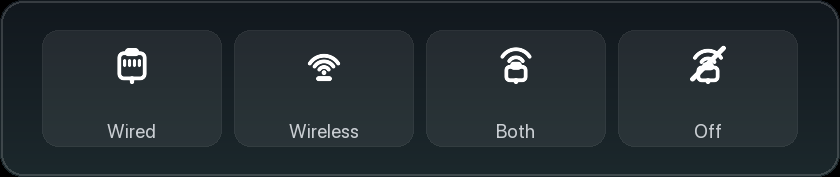
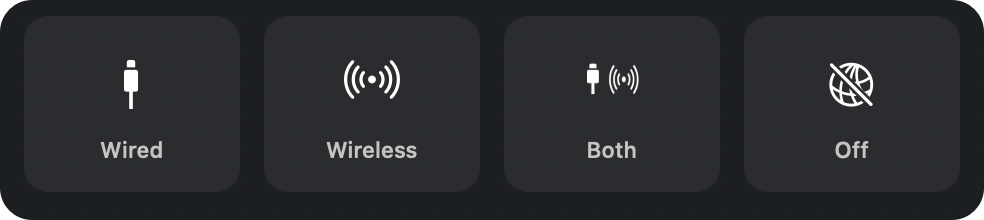
Refresh README screenshots and Usage for current panel UI (#1)
Hero now reflects the current panel (info button, icon footer) with a wired
adapter enabled; tray-states strip uses the current SF Symbols.

diff --git a/README.md b/README.md
@@ -103,12 +103,13 @@ The workflow lives at `.github/workflows/release.yml`. Builds are unsigned; see 
 
 ## Usage
 
-1. Click the Eithernet icon in the menu bar (state changes with wired / wireless / both / off).
+1. Click the Eithernet icon in the menu bar (tray icon: wired, wireless, both, or off).
 2. Under **Wired**, toggle any Ethernet / LAN adapters.
 3. Under **Wireless**, toggle Wi‑Fi power and tap a network name to join it.
-4. Check the header for connected SSID and IPv4.
-5. Use **Wi‑Fi Settings…** or **Eithernet Settings…** for system Wi‑Fi prefs and app options (including Launch at Login).
-6. Use **Refresh** to rescan interfaces and nearby SSIDs.
+4. On the **connected** network row, tap **ⓘ** for details: **auto‑join** and **Forget This Network**.
+5. Check the header for connected SSID and IPv4.
+6. Use **Wi‑Fi Settings…** or **Eithernet Settings…** for system Wi‑Fi prefs and app options (including Launch at Login).
+7. Use **Refresh** (↻) to rescan interfaces and nearby SSIDs.
 
 ## Launch at Login
 
